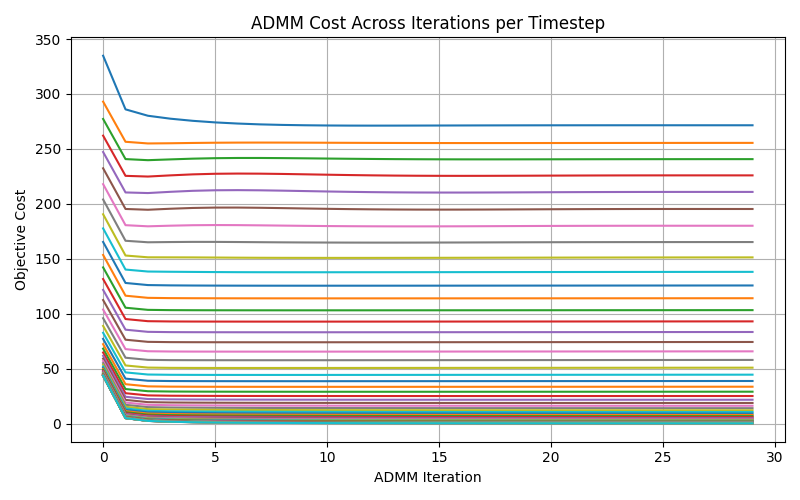
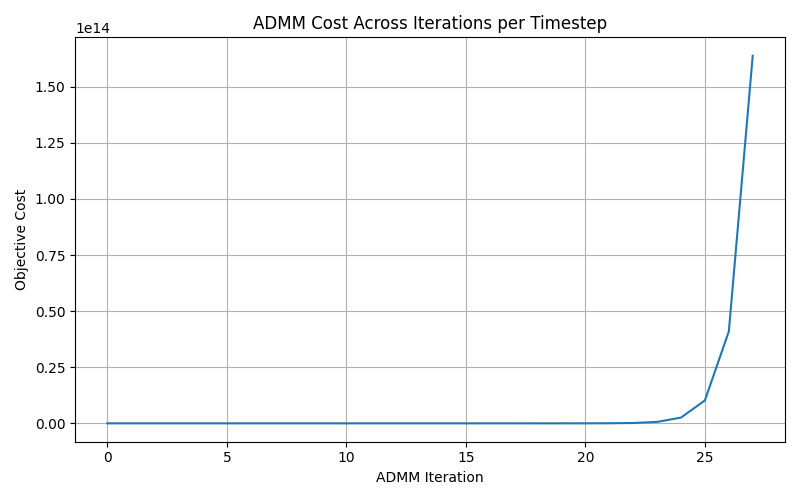
Previous admm

diff --git a/mpc-admm_augmented.py b/mpc-admm_augmented.py
@@ -4,13 +4,13 @@ import matplotlib.animation as animation
 import cvxpy as cp
 
 # Parameters
-N_drones = 5
+N_drones = 8
 horizon = 6
 dim = 3
 rho = 15.0
-ell = 0.35
-K_admm = 50
-T_sim = 60
+ell = 1.0
+K_admm = 100
+T_sim = 100
 dt = 0.1
 u_max = 1.0
 eps_pri = 1e-3
@@ -18,7 +18,7 @@ eps_dual = 1e-3
 tau = 1.0
 
 # Obstacles
-obstacles = [{"center": np.array([1, 1, -0.3]), "radius": 0.5}]
+obstacles = [{"center": np.array([1.5, 2.5, -0.5]), "radius": 0.8}]
 safety_margin = 0.2
 # obstacles = []  # No obstacles in this version
 
@@ -30,18 +30,10 @@ def dynamics(x, u):
 
 
 # Initial setup
-x_ref = np.array([[3 + ell, 0, 0],
-                    [3, 0, 0],
-                    [3, ell, 0],
-                    [3, 2 * ell, 0],
-                    [3 + ell, 2 * ell, 0]
-                ])
-
+x_ref = np.array([[i * ell, 0.0, 0.0] for i in range(N_drones)])
 x_current = np.array([[0, i * ell, 0] for i in range(N_drones)])
 x_hist = [x_current.copy()]
 u_hist = []
-
-dist_hist = []
 
 # Initial prediction
 x_pred_next = np.repeat(x_current[:, None, :], horizon + 1, axis=1)
@@ -49,7 +41,6 @@ u_pred_next = np.zeros((N_drones, horizon, dim))
 
 residual_log = []  # List of lists: one per timestep, containing residuals per ADMM iteration
 costs_log = []
-
 
 # ADMM-MPC loop
 for t in range(T_sim):
@@ -161,18 +152,9 @@ for t in range(T_sim):
     x_hist.append(x_next.copy())
     u_hist.append(u_apply.copy())
     x_current = x_next.copy()
-
-    dists = []
-    for i in range(N_drones - 1):
-        p1, p2 = x_next[i], x_next[i + 1]
-        midpoint = (p1 + p2) / 2
-        dist = np.linalg.norm(p1 - p2)
-        dists.append(dist)
-    dist_hist.append(dists)
+    np.save("x_hist.npy", x_hist)  # Save history for later use
 
 x_hist = np.array(x_hist)
-np.save("x_hist.npy", x_hist)
-np.save("dist_hist.npy", dist_hist)
 
 # ---------------------
 # Plot residuals over ADMM iterations for each timestep

diff --git a/mpc_simulation.py b/mpc_simulation.py
@@ -7,7 +7,7 @@ import pybullet as p
 from scipy.spatial.transform import Rotation as R
 
 # Load MPC solution
-mpc_solution_x = np.load("mpc_solution_x.npy", allow_pickle=True)
+mpc_solution_x = np.load("x_hist_test.npy", allow_pickle=True)
 
 if len(mpc_solution_x[0]) == 5:
     urdf = "dragon.urdf"
@@ -73,6 +73,7 @@ def align(p1, p2):
 
 def sim_loop(dragon: Dragon):
     for pos in mpc_solution_x:
+        print(pos)
         dragon.set_pos_ref(pos)
         abs_orients = []
 
